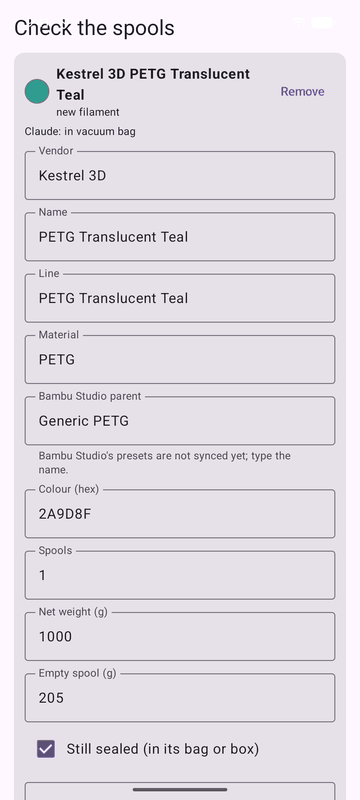
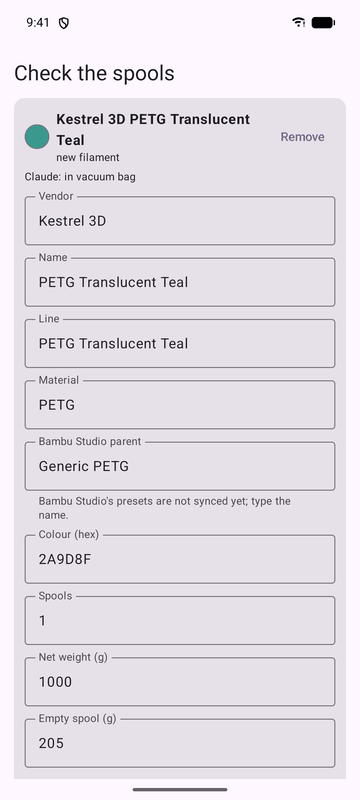
docs: retaken Android screenshots, plus the printers list, add printer, printer and spool card shots
All ten shots come from the app session's retakes (dark status bar icons,
model names, spool card button row fixed); made-up data only, 360 px wide.
Settings and Licences shots wait for the Licences screen to reach main.

diff --git a/docs/android-app.md b/docs/android-app.md
@@ -56,6 +56,8 @@ You need a Bambu Lab printer on the same network as the server, switched on.
 
 1. Open **Printers**. The server finds printers by itself; each shows its name, model and state. If the list is
    empty, check the printer is on and tap **Refresh**.
+<img src="images/android-printers-list.png" width="240" alt="Printers: one connected, one found but not set up"> <img src="images/android-add-printer.png" width="240" alt="Add printer: serial, name and Access Code">
+
 2. A printer marked **Tap to add this printer** is found but not set up. Tap it. The **Add printer** box shows its
    serial. Optionally give it a **Name**, type its **Access Code**, and tap **Add**. The code is on the printer:
    **Settings → Network/LAN → Access Code**.
@@ -76,6 +78,8 @@ You need a Bambu Lab printer on the same network as the server, switched on.
 **Printer not in the list at all?** Add it from the server instead: `sudo filament-kit config` → **5) Printers** →
 **add printer**, with its name, IP address, serial number and Access Code. (A server in WSL or a virtual machine
 behind NAT can't see printers; see [Running the server in WSL](install-server.md#running-the-server-in-wsl).)
+
+<img src="images/android-printer-screen.png" width="240" alt="A printer's screen: slots with Unload, and Map slots">
 
 ### Slot mapping (only if you want filament use counted)
 
@@ -156,6 +160,8 @@ duplicates: check Spoolman first.
 ### Link an NFC tag, set the weight, and the rest
 
 With the app open, tap a spool's NFC tag on the back of the phone.
+
+<img src="images/android-spool-card.png" width="240" alt="A spool's card: Update weight, Move, Mark empty, Load into printer">
 
 - **A tag already linked** opens the spool's card: type **Gross weight (g)** (the spool on a scale) and tap
   **Update weight**; the app shows `Remaining would change from … g to … g`, and **Confirm** saves it. **Move** changes
